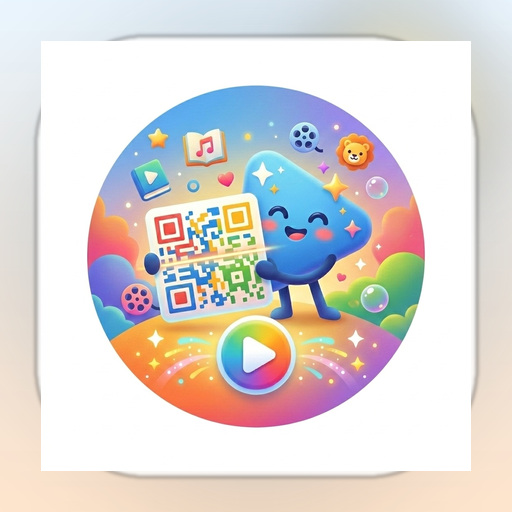
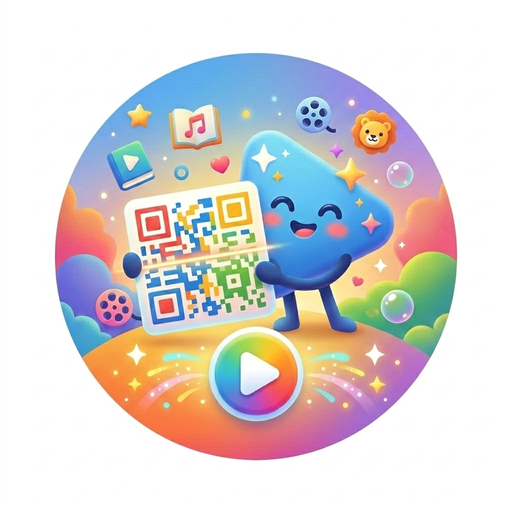
chore: 아이콘 수정

diff --git a/scripts/generate_play_store_assets.py b/scripts/generate_play_store_assets.py
@@ -195,22 +195,9 @@ def load_trimmed_icon() -> Image.Image:
     return icon
 
 
-# Creates the square Play Store app icon with a full-bleed background.
+# Creates the square Play Store app icon by resizing the primary app icon directly.
 def create_app_icon(trimmed_icon: Image.Image) -> Path:
-    image = make_gradient((512, 512), "#EAF6FF", "#FFE5CD").convert("RGBA")
-    add_glow(image, (256, 256), 200, BRAND_SKY, 90)
-    add_glow(image, (392, 108), 96, BRAND_YELLOW, 88)
-
-    backdrop = Image.new("RGBA", (512, 512), (0, 0, 0, 0))
-    draw = ImageDraw.Draw(backdrop)
-    draw.rounded_rectangle((36, 36, 476, 476), radius=110, fill=(255, 255, 255, 208))
-    draw.rounded_rectangle((56, 56, 456, 456), radius=100, outline=(255, 255, 255, 140), width=6)
-    backdrop = backdrop.filter(ImageFilter.GaussianBlur(2))
-    image.alpha_composite(backdrop)
-
-    artwork = trimmed_icon.resize((430, 430), Image.Resampling.LANCZOS)
-    image.alpha_composite(artwork, ((512 - artwork.width) // 2, (512 - artwork.height) // 2))
-
+    image = trimmed_icon.resize((512, 512), Image.Resampling.LANCZOS)
     output_path = OUTPUT_DIR / "app-icon-512.png"
     image.convert("RGB").save(output_path, optimize=True)
     return output_path
